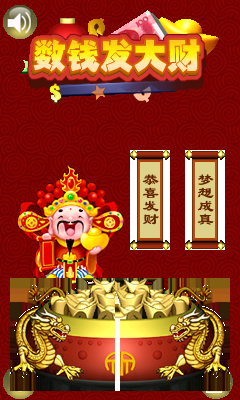
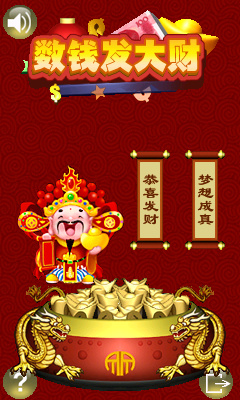
Fix counting game transparency and restart random loop

diff --git a/crates/coolbaremu-core/src/machine/drawing.rs b/crates/coolbaremu-core/src/machine/drawing.rs
@@ -1392,6 +1392,7 @@ impl CoolbarMachine {
     }
 
     fn create_image_from_bytes(&mut self, resource: &[u8], name: &str, output: u32) -> u32 {
+        let native_png = resource.first() == Some(&3);
         let encoded = image_payload(resource);
         let decoded = match image_decoder::decode_image(encoded) {
             Ok(decoded) => decoded,
@@ -1429,7 +1430,7 @@ impl CoolbarMachine {
         }
         let pitch = decoded.width.next_multiple_of(4);
         let pixel_count = pitch.saturating_mul(decoded.height);
-        // Keep alpha in the allocation tail so opaque blits retain palette colors.
+        // Keep alpha in the allocation tail to preserve opaque black pixels.
         // The guest-memory tail also survives save-state restoration.
         let pixels = self.allocate(pixel_count.saturating_mul(3).saturating_add(8));
         if pixels == 0 {
@@ -1445,7 +1446,12 @@ impl CoolbarMachine {
                 let green = decoded.data[offset + 1] as u16;
                 let blue = decoded.data[offset + 2] as u16;
                 let alpha = decoded.data[offset + 3];
-                let color = ((red & 0xf8) << 8) | ((green & 0xfc) << 3) | (blue >> 3);
+                // Guest PNG transforms copy RGB565 pixels without the host mask.
+                let color = if native_png && alpha == 0 {
+                    0
+                } else {
+                    ((red & 0xf8) << 8) | ((green & 0xfc) << 3) | (blue >> 3)
+                };
                 self.memory.w16(pixels + (y * pitch + x) * 2, color);
                 self.memory.w8(mask + y * pitch + x, u8::from(alpha < 128));
             }
@@ -2290,6 +2296,55 @@ mod tests {
                 restored.fill_screen_rect(0, 0, 2, 1, 0x07e0);
                 restored.blit_image(SCREEN_IMAGE_STRUCT, image, 0, 0, 3, 1, -1, 0, true);
                 assert_eq!(&restored.frame_pixels()[..2], &[0x000000, 0xff0000]);
+            }
+        }
+    }
+
+    #[test]
+    fn firmware_png_transparency_survives_guest_rgb565_copies() {
+        let mut png = Vec::new();
+        image::codecs::png::PngEncoder::new(&mut png)
+            .write_image(
+                &[255, 255, 255, 0, 255, 0, 0, 255, 0, 255, 0, 255],
+                3,
+                1,
+                image::ExtendedColorType::Rgba8,
+            )
+            .unwrap();
+        let mut resource = vec![3];
+        resource.extend_from_slice(&(png.len() as u32).to_be_bytes());
+        resource.extend_from_slice(&3u16.to_be_bytes());
+        resource.extend_from_slice(&1u16.to_be_bytes());
+        resource.extend_from_slice(&png);
+        for wide in [false, true] {
+            for big_endian in [false, true] {
+                let mut machine = CoolbarMachine::new_blank_for_tests();
+                machine.wide_images = wide;
+                let mut memory = super::super::memory::MachineMemory::new(big_endian);
+                memory.regions = std::mem::take(&mut machine.memory.regions);
+                machine.memory = memory;
+                machine.initialize_screen();
+                let source = machine.create_image_from_bytes(&resource, "firmware PNG", 0);
+                let source_pixels = machine.memory.r32(source);
+                assert_eq!(machine.memory.r16(source_pixels), 0);
+                let mut state = vec![0; crate::save_state::SERIALIZED_SIZE];
+                crate::save_state::encode_machine(&machine, 123, &mut state).unwrap();
+                let mut restored = crate::save_state::decode_machine(&state, 123).unwrap();
+                let mirrored = restored.allocate(24);
+                let pixels = restored.allocate(8);
+                restored.memory.w32(mirrored, pixels);
+                restored.write_image_dims(mirrored, 3, 1);
+                // Native transforms copy only RGB565 words, not host mask metadata.
+                for x in 0..3 {
+                    let color = restored.memory.r16(source_pixels + (2 - x) * 2);
+                    restored.memory.w16(pixels + x * 2, color);
+                }
+                restored.fill_screen_rect(0, 0, 3, 1, 0x001f);
+                restored.blit_image(SCREEN_IMAGE_STRUCT, mirrored, 0, 0, 3, 1, 0, 0, true);
+                assert_eq!(
+                    &restored.frame_pixels()[..3],
+                    &[0x00ff00, 0xff0000, 0x0000ff]
+                );
             }
         }
     }

diff --git a/crates/coolbaremu-core/src/machine/services/stdio.rs b/crates/coolbaremu-core/src/machine/services/stdio.rs
@@ -212,7 +212,13 @@ impl CoolbarMachine {
                 self.set_result(destination);
             }
             4 => self.set_result(0),
-            5 => self.set_result(self.instruction_count as u32),
+            5 => {
+                self.rand_state = self
+                    .rand_state
+                    .wrapping_mul(1_103_515_245)
+                    .wrapping_add(12_345);
+                self.set_result((self.rand_state >> 16) & 0x7fff);
+            }
             7 => {
                 let destination = self.register(0);
                 let source = self.register(1);
@@ -457,5 +463,32 @@ impl CoolbarMachine {
             .unwrap_or_else(|| vec![0u8; NV_BLOCK_SIZE as usize]);
         blob.resize(NV_BLOCK_SIZE as usize, 0);
         blob
+    }
+}
+
+#[cfg(test)]
+mod tests {
+    use crate::machine::CoolbarMachine;
+    use std::collections::BTreeSet;
+
+    #[test]
+    fn stdio_random_is_bounded_varied_and_independent_of_instruction_timing() {
+        let mut first = CoolbarMachine::new_blank_for_tests();
+        let mut second = CoolbarMachine::new_blank_for_tests();
+        first.instruction_count = 1;
+        second.instruction_count = 0xf000_0000;
+        let mut samples = BTreeSet::new();
+        let mut residues = BTreeSet::new();
+        for _ in 0..64 {
+            first.handle_stdio_service(5);
+            second.handle_stdio_service(5);
+            let value = first.register_value(0);
+            assert_eq!(value, second.register_value(0));
+            assert!(value <= 0x7fff);
+            samples.insert(value);
+            residues.insert(value % 4);
+        }
+        assert!(samples.len() > 32);
+        assert_eq!(residues.len(), 4);
     }
 }

diff --git a/docs/Game-Compatibility.md b/docs/Game-Compatibility.md
@@ -215,7 +215,7 @@ not provide the original server's content or a real carrier payment service.
 | 12 | `B/在线书城.CBE` | 240×400 | <img src="images/B/在线书城.png" width="120" alt="在线书城 offline error prompt"> | Required | Halted | Offline failure prompt and normal timed exit verified; scrolling/font differences remain, online reading unverified |
 | 13 | `B/在线音乐.CBE` | 240×400 | <img src="images/B/在线音乐.png" width="120" alt="在线音乐 idle frame"> | Required | Ready | Search controls, toolbars and add prompt render; prompt scrolls with current font metrics; online operation unverified |
 | 14 | `B/士兵突袭.CBE` | 400×240 | <img src="images/B/士兵突袭.png" width="120" alt="士兵突袭 idle frame"> | No known requirement | Ready | Offscreen glyph-cache text restored; left/right movement, jumping/climbing and exit-dialog cancellation checked through 820 frames; [gameplay](images/B/士兵突袭-gameplay.png), [dialog](images/B/士兵突袭-dialog.png). Weapon switching, kills and full campaign unverified |
-| 15 | `B/大家来数钱.CBE` | 240×400 | <img src="images/B/大家来数钱.png" width="120" alt="大家来数钱 idle frame"> | No known requirement | Ready | Idle frame captured; interaction/gameplay unverified |
+| 15 | `B/大家来数钱.CBE` | 240×400 | <img src="images/B/大家来数钱.png" width="120" alt="大家来数钱 idle frame"> | No known requirement | Ready | Transformed PNG transparency and restart random-number loop repaired; difficulty selection, bill dragging, restart and return to title checked through 542 frames; [counting](images/B/大家来数钱-gameplay.png). Full-round settlement and wealth accumulation unverified |
 | 16 | `B/天气精灵.CBE` | 240×400 | <img src="images/B/天气精灵.png" width="120" alt="天气精灵 idle frame"> | Required | Ready | Idle frame captured; interaction/gameplay unverified |
 | 17 | `B/孤岛.CBE` | 240×400 | <img src="images/B/孤岛.png" width="120" alt="孤岛 idle frame"> | No known requirement | Ready | Idle frame captured; interaction/gameplay unverified |
 | 18 | `B/小酷.CBE` | 240×400 | <img src="images/B/小酷.png" width="120" alt="小酷 idle frame"> | No known requirement | Ready | Idle frame captured; interaction/gameplay unverified |

diff --git a/docs/architecture.md b/docs/architecture.md
@@ -244,10 +244,12 @@ and fullscreen presentation.
 Image resources are reconstructed from the CBE GIF variant or firmware PNG
 representation, decoded, and copied into guest image objects. Custom GIF
 palettes use big-endian RGB565; firmware PNG palettes use little-endian RGB565
-while PNG chunk lengths remain big-endian. Decoded RGB565 colors are preserved
-even for transparent pixels. A separate transparency mask is stored after the
-pixel data in the same heap allocation, with a host tag; opaque blits copy
-original colors and alpha blits consult the mask. Guest-created images without
+while PNG chunk lengths remain big-endian. Firmware-wrapped PNG images expose
+fully transparent pixels as RGB565 zero so guest transforms that copy only pixel
+words retain color-key transparency. Other decoded streams preserve their RGB
+components for opaque drawing. A separate transparency mask follows the pixel
+data in the same allocation, with a host tag; alpha blits consult it to preserve
+opaque black pixels. Guest-created images without
 this metadata retain zero-color transparency. The mask is part of guest-memory
 save states, so no serialized field layout change is required.
 
@@ -272,6 +274,11 @@ Clipped strings honor their pixel width; rectangle strings wrap and return their
 occupied line count and width. Scalar and packed LCD line APIs include both
 endpoints and clip pixels to the active surface. Missing firmware text returns
 a valid empty string; built-in phone UI strings are not supplied.
+
+The stdio `VmGetRand` service advances the existing deterministic 15-bit LCG
+stream. It does not return the CPU instruction counter; repeated requests must
+vary even without advancing guest instructions, including rejection-sampling
+loops that generate a new deck when restarting a game.
 
 ## Headless execution
 

diff --git a/README.md b/README.md
@@ -31,7 +31,7 @@ signatures and configuration keys are not supported.
   resource lookup, image decoding
 - **ARM/Thumb CPU emulation** — little- and big-endian execution, interworking branches
 - **Service bridge** — firmware-style API for memory, resources, display,
-  input, text, little-endian game-data reads, DF panel invalidation,
+  input, text, stateful stdio random numbers, little-endian game-data reads, DF panel invalidation,
   fixed-point game math, and
   packed-rectangle collision detection
 - **Guest filesystem** — sandboxed in-memory files used by CBE installers and
@@ -47,7 +47,8 @@ signatures and configuration keys are not supported.
 - **Login fields** — basic numeric account/password controls with focus,
   password masking and save-state preservation; online authentication is not implemented
 - **Graphics rendering** — RGB565 framebuffer with GIF and PNG image reconstruction
-  and format-specific palette byte order; picture-library numeric glyphs support HUD
+  and format-specific palette byte order; firmware PNG transparency survives guest
+  RGB565 image transforms; picture-library numeric glyphs support HUD
   counters and selected targets, with LCD clipping for fixed-manager sprite-sheet digits
 - **Text rendering** — GBK and guest-endian UCS-2 strings, clipped and wrapped
   text, and offscreen glyph-cache drawing with an embedded Unicode bitmap font

diff --git a/docs/Game-File-Formats.md b/docs/Game-File-Formats.md
@@ -93,8 +93,11 @@ Custom GIF resources store palette entries as big-endian RGB565. Firmware PNG
 resources use the `89 50 4E 47 47 41 4D 45` signature and little-endian RGB565
 palette entries; their PNG chunk lengths remain big-endian. A firmware `PLTE`
 chunk declares the RGB888 length but stores two bytes per palette entry.
-Palette colors and transparency are decoded separately: opaque drawing copies
-the original color, while alpha drawing skips pixels marked transparent.
+Palette colors and transparency are decoded separately. In type-3 firmware PNG
+wrappers, fully transparent pixels are exposed as RGB565 zero because guest
+image transforms copy pixel words without the host transparency mask. Other
+streams retain their RGB components for opaque drawing; alpha drawing uses the
+separate mask, including for opaque black pixels.
 
 - **Pixel format**: RGB565 (16-bit, 5-6-5 bit layout)
 - **Resolution**: Active LCD dimensions; supported portrait modes are 176×220,
